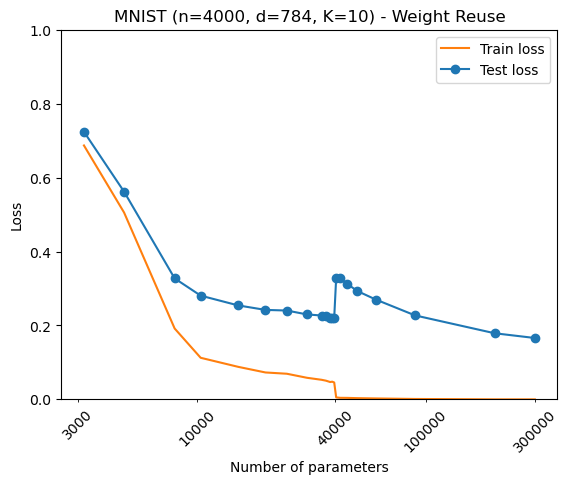
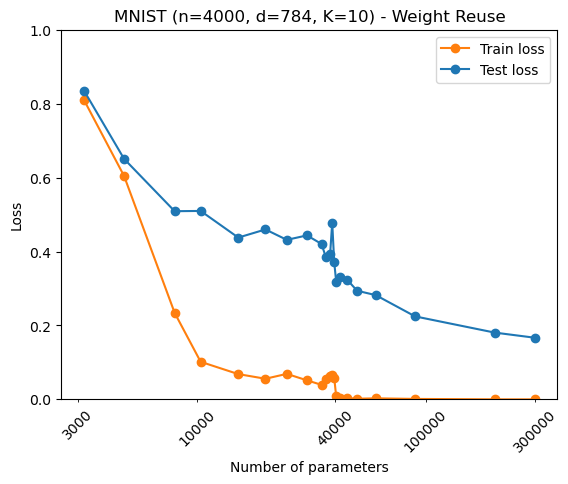
Update README and figures with new result

diff --git a/README.md b/README.md
@@ -14,7 +14,9 @@
 
 ## Comments
 
-In its current state, the results obtained from my testing are quantitively and qualitively different from Belkin et al, as seen in the graphs above. Double descent is still observed, yet it arises as a steep step change at the interpolation threshold, as opposed to the gradual decrease in generalisation seen by Belkin et al [[1]](#1) (particularly obvious with the weight reuse scheme). I also notice little difference between the *weight reuse* and *no weight reuse* settings in the trend of generalisation with respect to number of model parameters.
+The results shown above are both from a single run of the experiment. To be updated later to show the average of training each model 5 times as in Belkin et al [[1]](#1). 
+
+Currently, results are similar for the no weight reuse run, however the double descent is not observed anywhere near as clearly as in the original experiment for the runs with the weight reuse scheme.
 
 As of now, it is possible that these differences may be due to a bug or oversight in my implementation. Particularly as <a href="https://github.com/SongweiGe/double-descent-pytorch">another reproduction</a> by <a href="https://github.com/SongweiGe">*SongweiGe*</a> managed to obtain results which more closely resembled Belkin et al [[1]](#1). Further questions arise from lacking details of the original experiment with regards to choice of activation function, learning rate, and batch sizes.
 
@@ -50,6 +52,15 @@ Training is started from the command line, where a number of options can be spec
 
 '*python belkin_dd_reproduction.py --hidden-units 4 6 10
  13 19 25 31 38 44 46 48 49 50 51 53 57 63 76 113 252 378 --activation-fun relu --seed **i** --save-metrics*'
+
+## Experimental Notes
+Details of implementation:
+- base learning rate: 0.001*
+- training batch size: 4000*
+- number of epochs: 6000
+- activation functions: ReLU*
+
+*Not defined by Belkin et al [[1]](#1), hence chosen.
 
 ---
 ## References
